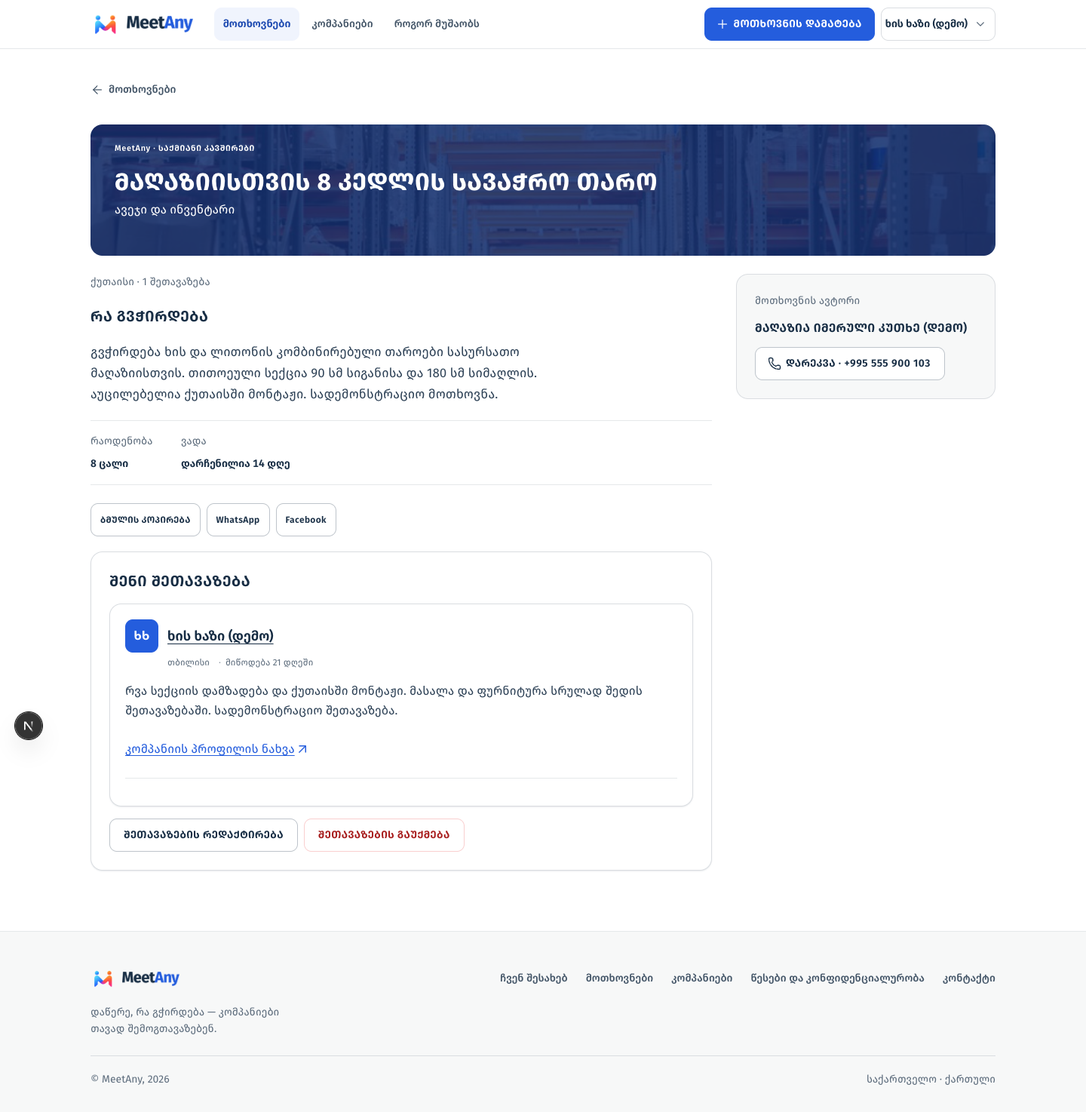
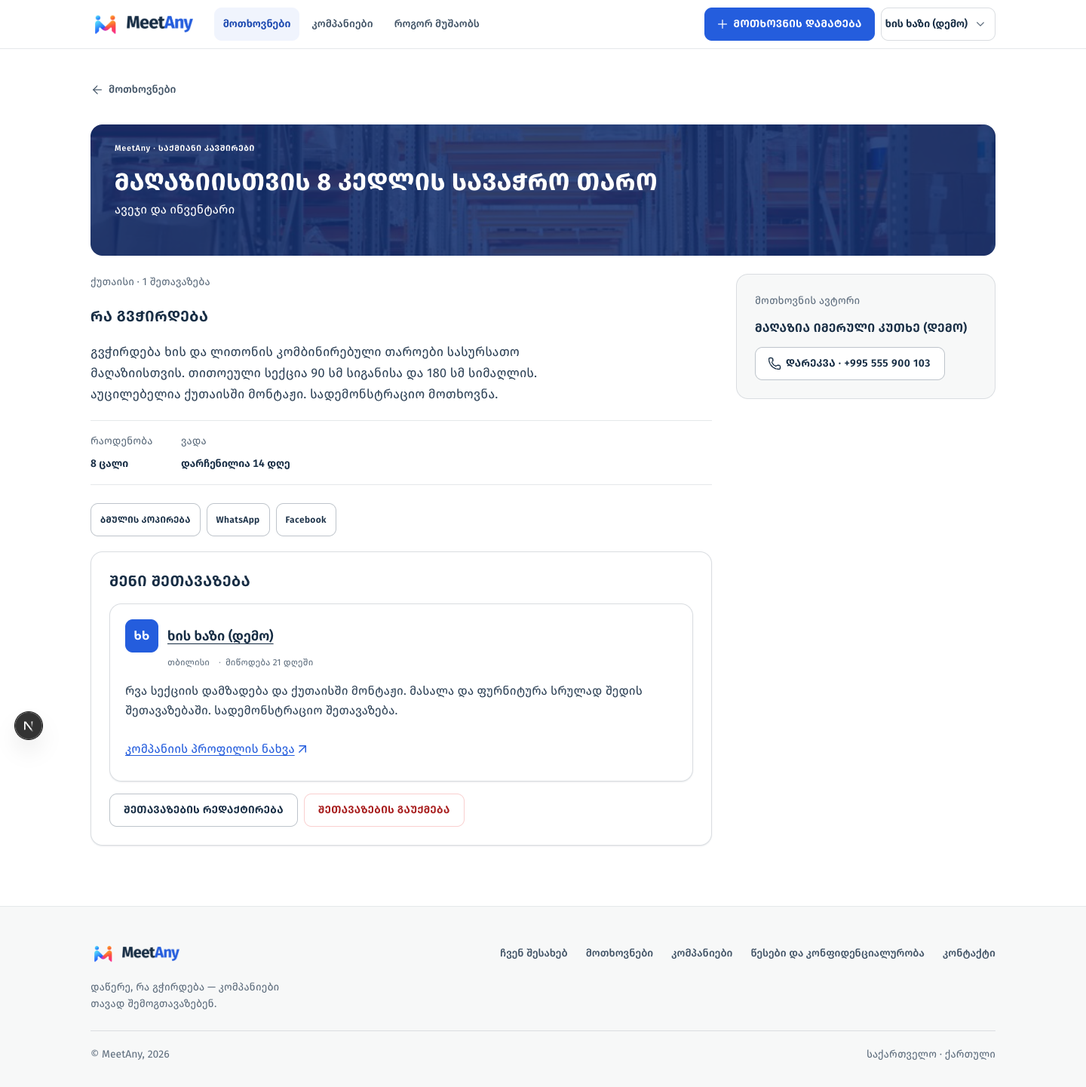
Fix remaining profile badges, filter labels and offer card spacing

diff --git a/web/app/components/market/CompaniesPageContent.tsx b/web/app/components/market/CompaniesPageContent.tsx
@@ -43,19 +43,18 @@ function skeleton() {
 export function CompaniesPageContent() {
   const { store, ready, available } = useMarketStore();
   const filters = useFilters("/companies/");
-  const industry = filters.get("industry"), city = filters.get("city"), query = filters.get("q"), verified = filters.get("verified") === "1";
+  const industry = filters.get("industry"), city = filters.get("city"), query = filters.get("q");
   const type = filters.get("type");
   const setIndustry = (industry: string) => filters.set({industry});
   const setCity = (city: string) => filters.set({city});
   const setQuery = (q: string) => filters.set({q});
-  const setVerified = (value: boolean) => filters.set({verified: value ? "1" : ""});
   const [sheetOpen, setSheetOpen] = useState(false);
   const filterButtonRef = useRef<HTMLButtonElement>(null);
 
   const list = useCallback(
-    (overrides: Partial<{ industry: string; city: string; verified: boolean }>) =>
-      (store?.listCompanies as (args: unknown) => MappedCompany[])?.({ industry, city, verified, type, q: query, ...overrides }) || [],
-    [store, industry, city, verified, query, type],
+    (overrides: Partial<{ industry: string; city: string }>) =>
+      (store?.listCompanies as (args: unknown) => MappedCompany[])?.({ industry, city, type, q: query, ...overrides }) || [],
+    [store, industry, city, query, type],
   );
 
   const results = useMemo(() => (ready && available ? list({}) : []), [ready, available, list]);
@@ -99,30 +98,28 @@ export function CompaniesPageContent() {
     ...(type ? [{key: "type", label: ({suppliers: "მომწოდებლები", services: "მომსახურება", distributors: "დისტრიბუტორები", partners: "ბიზნესპარტნიორები"} as Record<string, string>)[type] || type}] : []),
     ...(industry ? [{ key: "industry", label: categories[industry] }] : []),
     ...(city ? [{ key: "city", label: cities[city] }] : []),
-    ...(verified ? [{ key: "verified", label: "დადასტურებული" }] : []),
   ];
   const removeFilter = (key: string) => {
     if (key === "type") filters.set({type: ""});
     else if (key === "industry") setIndustry("");
     else if (key === "city") setCity("");
-    else setVerified(false);
   };
   const clearFilters = () => filters.set({industry: "", city: "", verified: "", q: "", type: ""});
-  const filterCount = Number(!!industry) + Number(!!city) + Number(verified);
+  const filterCount = Number(!!industry) + Number(!!city);
 
   const countLabel = !available ? "" : !ready ? "კომპანიები იტვირთება…" : `${rows.length} კომპანია`;
 
-  const filtersBody = (
+  const filtersBody = (placement: "desktop" | "mobile") => (
     <div className="ma-proto-filters">
       <div>
         <h2 className="ma-title">დარგი</h2>
         <FacetList all={industryFacets} loading={!ready} allLabel="ყველა დარგი" allCount={allCount} activeId={industry} onSelect={setIndustry} />
       </div>
       <div className="ma-field">
-        <label className="ma-field__label" htmlFor="company-city-desktop">
+        <label className="ma-field__label" htmlFor={`company-city-${placement}`}>
           მომსახურების ქალაქი
         </label>
-        <select className="ma-select" id="company-city-desktop" value={city} onChange={(e) => setCity(e.target.value)}>
+        <select className="ma-select" id={`company-city-${placement}`} value={city} onChange={(e) => setCity(e.target.value)}>
           <option value="">ყველა ქალაქი</option>
           {cityOptions.map((id) => (
             <option key={id} value={id}>
@@ -131,10 +128,6 @@ export function CompaniesPageContent() {
           ))}
         </select>
       </div>
-      <label className="ma-check">
-        <input type="checkbox" role="switch" checked={verified} onChange={(e) => setVerified(e.target.checked)} />
-        <span>მხოლოდ დადასტურებული</span>
-      </label>
       <button type="button" className="ma-btn ma-btn--ghost" onClick={clearFilters}>
         ფილტრების გასუფთავება
       </button>
@@ -162,7 +155,7 @@ export function CompaniesPageContent() {
       </header>
       <div className="ma-proto-columns">
         <aside className="ma-proto-sidebar ma-panel" aria-label="კომპანიების ფილტრები">
-          {filtersBody}
+          {filtersBody("desktop")}
         </aside>
         <section className="ma-stack">
           <button type="button" className="ma-btn ma-btn--secondary ma-lg-down" ref={filterButtonRef} onClick={() => setSheetOpen(true)}>
@@ -223,7 +216,7 @@ export function CompaniesPageContent() {
           </button>
         }
       >
-        {filtersBody}
+        {filtersBody("mobile")}
       </MobileFilterSheet>
     </div>
   );

diff --git a/web/app/components/HomeLive.tsx b/web/app/components/HomeLive.tsx
@@ -20,6 +20,6 @@ export function HomeFeatured() {
   const list = [...all].sort((a,b) => Number(b.verified) - Number(a.verified)).slice(0,3);
   return <div className="m-list" id="featured-companies" aria-busy={!ready}>{!ready ? <p role="status">იტვირთება…</p> : !available ? <p>სერვისი დროებით მიუწვდომელია.</p> : !list.length ? <div className="m-empty"><h2>კომპანიები მალე გამოჩნდება</h2><Link className="m-btn m-btn-primary" href="/account/?tab=register&role=company">დაარეგისტრირე კომპანია</Link></div> : list.map(c => {
     const stats=store?.companyStats(c.id);
-    return <article className="m-company" key={c.id}><span className="m-avatar" style={{background:"var(--action)"}} aria-hidden="true">{initials(c.company)}</span><div><h3><Link href={`/companies/view/?id=${c.id}`}>{c.company}</Link>{c.verified ? <span className="m-verified"><Icon name="badge-check"/>დადასტურებული</span> : null}</h3><div className="m-sub">{categories[c.industry]} · {cities[c.city]}</div>{c.about ? <p>{c.about}</p> : null}<div className="m-tags">{c.offers.slice(0,3).map(t => <span key={t} className="m-chip plain">{t}</span>)}</div></div><div className="m-company-side"><span className="m-count"><Icon name="send"/><b>{stats.sent}</b> შეთავაზება{stats.chosen ? ` · ${stats.chosen} არჩეული` : ""}</span><Link className="m-btn m-btn-secondary m-btn-sm" href={`/companies/view/?id=${c.id}`}>პროფილი <Icon name="arrow-right"/></Link></div></article>;
+    return <article className="m-company" key={c.id}><span className="m-avatar" style={{background:"var(--action)"}} aria-hidden="true">{initials(c.company)}</span><div><h3><Link href={`/companies/view/?id=${c.id}`}>{c.company}</Link></h3><div className="m-sub">{categories[c.industry]} · {cities[c.city]}</div>{c.about ? <p>{c.about}</p> : null}<div className="m-tags">{c.offers.slice(0,3).map(t => <span key={t} className="m-chip plain">{t}</span>)}</div></div><div className="m-company-side"><span className="m-count"><Icon name="send"/><b>{stats.sent}</b> შეთავაზება{stats.chosen ? ` · ${stats.chosen} არჩეული` : ""}</span><Link className="m-btn m-btn-secondary m-btn-sm" href={`/companies/view/?id=${c.id}`}>პროფილი <Icon name="arrow-right"/></Link></div></article>;
   })}</div>;
 }

diff --git a/web/app/components/market/AccountPageContent.tsx b/web/app/components/market/AccountPageContent.tsx
@@ -75,7 +75,7 @@ function ProfileForm({ me, onSaved }: { me: AnyUser; onSaved: () => void }) {
             <label className="ma-field__label" htmlFor="company">
               კომპანიის დასახელება{isCompany ? " *" : ""}
             </label>
-            <input className="ma-input" id="company" maxLength={100} value={company} onChange={(e) => setCompany(e.target.value)} />
+            <input className="ma-input" id="company" required={isCompany} maxLength={100} value={company} onChange={(e) => setCompany(e.target.value)} />
           </div>
         </div>
         <div className="ma-form__row ma-form__row--2">
@@ -196,7 +196,7 @@ export function AccountPageContent() {
   if (!me) {
     return (
       <div className="ma-page">
-        <PageBand eyebrow="MeetAny · საქმიანი კავშირები" title="შედი ანგარიშში" description="MeetAny აკავშირებს ბიზნესებს: ნებისმიერს შეუძლია დაწეროს მოთხოვნა, კომპანიები კი პასუხობენ შეთავაზებით." />
+        <PageBand eyebrow="MeetAny · საქმიანი კავშირები" title="შენი ანგარიში" description="MeetAny აკავშირებს ბიზნესებს: ნებისმიერს შეუძლია დაწეროს მოთხოვნა, კომპანიები კი პასუხობენ შეთავაზებით." />
         <AuthForms initialRole={searchParams.get("role") || ""} />
       </div>
     );
@@ -215,7 +215,6 @@ export function AccountPageContent() {
           <p className="ma-small ma-muted">
             {me.name} · {isCompany ? "კომპანია" : "კლიენტი"}
           </p>
-          {isCompany && me.verified ? <span className="ma-badge ma-badge--success">დადასტურებული</span> : null}
           {me.blocked ? <span className="ma-badge ma-badge--danger">დაბლოკილია</span> : null}
           <dl className="ma-kv">
             <div>

diff --git a/web/app/components/market/RequestsPageContent.tsx b/web/app/components/market/RequestsPageContent.tsx
@@ -147,17 +147,17 @@ export function RequestsPageContent({ autoOpenNew = false }: { autoOpenNew?: boo
       ? "მოთხოვნები იტვირთება…"
       : `${rows.length} ღია მოთხოვნა`;
 
-  const filtersBody = (
+  const filtersBody = (placement: "desktop" | "mobile") => (
     <div className="ma-proto-filters">
       <div>
         <h2 className="ma-title">კატეგორია</h2>
         <FacetList all={categoryFacets} loading={!ready} allLabel="ყველა კატეგორია" allCount={allCount} activeId={category} onSelect={setCategory} />
       </div>
       <div className="ma-field">
-        <label className="ma-field__label" htmlFor="city-desktop">
+        <label className="ma-field__label" htmlFor={`city-${placement}`}>
           სად არის საჭირო
         </label>
-        <select className="ma-select" id="city-desktop" value={city} onChange={(e) => setCity(e.target.value)}>
+        <select className="ma-select" id={`city-${placement}`} value={city} onChange={(e) => setCity(e.target.value)}>
           <option value="">ყველა ქალაქი</option>
           {cityFacets.map((f) => (
             <option key={f.id} value={f.id}>
@@ -190,7 +190,7 @@ export function RequestsPageContent({ autoOpenNew = false }: { autoOpenNew?: boo
       </header>
       <div className="ma-proto-columns">
         <aside className="ma-proto-sidebar ma-panel" aria-label="ფილტრები">
-          {filtersBody}
+          {filtersBody("desktop")}
         </aside>
         <section className="ma-stack" aria-label="მოთხოვნების სია">
           <div className="ma-proto-toolbar">
@@ -262,7 +262,7 @@ export function RequestsPageContent({ autoOpenNew = false }: { autoOpenNew?: boo
           </button>
         }
       >
-        {filtersBody}
+        {filtersBody("mobile")}
       </MobileFilterSheet>
 
       <RequestFormSheet open={formOpen} initialCategory={formCategory} onClose={() => setFormOpen(false)} />

diff --git a/web/app/components/market/AuthForms.tsx b/web/app/components/market/AuthForms.tsx
@@ -39,13 +39,13 @@ function LoginForm({ onSwitch, onReset }: { onSwitch: () => void; onReset: () =>
         <label className="ma-field__label" htmlFor="login-email">
           ელფოსტა
         </label>
-        <input className="ma-input" id="login-email" type="email" required value={email} onChange={(e) => setEmail(e.target.value)} placeholder="name@company.ge" />
+        <input className="ma-input" id="login-email" autoComplete="username" type="email" required value={email} onChange={(e) => setEmail(e.target.value)} placeholder="name@company.ge" />
       </div>
       <div className="ma-field">
         <label className="ma-field__label" htmlFor="login-password">
           პაროლი
         </label>
-        <input className="ma-input" id="login-password" type="password" required value={password} onChange={(e) => setPassword(e.target.value)} />
+        <input className="ma-input" id="login-password" autoComplete="current-password" type="password" required value={password} onChange={(e) => setPassword(e.target.value)} />
       </div>
       {error ? (
         <p className="ma-field__error" role="alert">
@@ -121,7 +121,7 @@ function RegisterForm({ initialRole }: { initialRole: string }) {
           <label className="ma-field__label" htmlFor="reg-company">
             კომპანია / ობიექტი{role === "client" ? " · არასავალდებულო" : " *"}
           </label>
-          <input className="ma-input" id="reg-company" maxLength={100} value={company} onChange={(e) => setCompany(e.target.value)} />
+          <input className="ma-input" id="reg-company" required={role === "company"} maxLength={100} value={company} onChange={(e) => setCompany(e.target.value)} />
         </div>
       </div>
       <div className="ma-form__row ma-form__row--2">

diff --git a/web/app/components/market/CompanyProfilePageContent.tsx b/web/app/components/market/CompanyProfilePageContent.tsx
@@ -70,7 +70,7 @@ export function CompanyProfilePageContent() {
   const ctaHref = `/requests/new/?category=${encodeURIComponent(c.industry)}`;
 
   return (
-    <div className="ma-page">
+    <div className="ma-page company-profile">
       <header
         className="r2-band ma-page-head"
         style={{ "--band-photo": `url(/assets/photos/${categoryPhoto[c.industry] || categoryPhoto.other})` } as React.CSSProperties}
@@ -83,12 +83,6 @@ export function CompanyProfilePageContent() {
             {categories[c.industry] || c.industry} · {cities[c.city] || c.city}
           </p>
           <div className="ma-cluster">
-            {c.verified ? (
-              <span className="ma-badge ma-badge--success">
-                <Icon name="check" />
-                დადასტურებული
-              </span>
-            ) : null}
             <span>{statsLabel(stats)}</span>
           </div>
           {phone ? (
@@ -115,12 +109,6 @@ export function CompanyProfilePageContent() {
               <dt>წევრია</dt>
               <dd>{dateLabel(c.createdAt)}</dd>
             </div>
-            {c.verifiedAt ? (
-              <div>
-                <dt>დადასტურებულია</dt>
-                <dd>{dateLabel(c.verifiedAt)}</dd>
-              </div>
-            ) : null}
             <div>
               <dt>გაგზავნილი</dt>
               <dd>{stats.sent}</dd>

diff --git a/web/app/components/market/OfferCard.tsx b/web/app/components/market/OfferCard.tsx
@@ -48,18 +48,18 @@ export function OfferCard({ o, onChoose, canChoose }: { o: OfferCardData; onChoo
       <Link className="ma-link" href={o.companyHref}>
         კომპანიის პროფილის ნახვა <Icon name="arrow-up-right" />
       </Link>
-      <div className="ma-ocard__actions">
+      {o.status === "chosen" || (canChoose && o.status !== "declined") ? <div className="ma-ocard__actions">
         {o.status === "chosen" ? (
           <p className="ma-note">
             <Icon name="check" />
-            შეთავაზება არჩეულია. ელფოსტა ქვემოთ გამოჩნდება.
+            შეთავაზება არჩეულია.
           </p>
         ) : canChoose && o.status !== "declined" ? (
           <button type="button" className="ma-btn ma-btn--primary" onClick={onChoose}>
             შეთავაზების არჩევა
           </button>
         ) : null}
-      </div>
+      </div> : null}
     </article>
   );
 }

diff --git a/web/app/components/market/CompanyRow.tsx b/web/app/components/market/CompanyRow.tsx
@@ -28,12 +28,7 @@ export function CompanyRow({ c }: { c: CompanyRowData }) {
         <Link className="ma-title ma-proto-rowtitle" href={href}>
           {c.name}
         </Link>
-        {c.verified ? (
-          <span className="ma-badge ma-badge--success">
-            <Icon name="check" />
-            დადასტურებული
-          </span>
-        ) : null}
+
         <p className="ma-small ma-muted">
           {categories[c.industry] || c.industry} · {cities[c.city] || c.city}
         </p>

diff --git a/web/app/styles/marketplace.css b/web/app/styles/marketplace.css
@@ -246,3 +246,7 @@
  .requests-catalog .ma-proto-rowend{display:flex;flex-wrap:wrap;align-items:center;gap:var(--space-3)}
  .requests-catalog .ma-proto-rowend>.ma-btn{margin-left:auto}
 }
+
+/* Profile sections already have a parent gap; avoid adding two section margins as well. */
+.company-profile .ma-proto-account>.ma-stack{gap:var(--space-8)}
+.company-profile .ma-proto-account>.ma-stack>.r2-section{margin-block:0}

diff --git a/DESIGN-SYSTEM.md b/DESIGN-SYSTEM.md
@@ -13,7 +13,7 @@ Tailwind/shadcn არ გამოიყენება. ახალი ფე
 
 მოთხოვნების სია: კომპაქტური თეთრი შესავალი, სათაურის გვერდით ძიება, მარცხენა ფილტრები და შედეგების რიგში დალაგება. ტექსტზე ორიენტირებულ ბარათებში რაოდენობა/ქალაქი და ვადა/პასუხები სტაბილურ ადგილებს იკავებს. მოთხოვნის დეტალი ინარჩუნებს მუქ ფოტობენდს. კატეგორიები Lucide-ის `/icons.svg` sprite-დან; ყველა არანულოვანი კატეგორია ჩანს მოკლე ერთხაზიანი ლეიბლით, ცალკე რაოდენობით და აქტიური რიგის მარცხენა აქცენტით. სრული სახელი ხელმისაწვდომია `aria-label`/`title`-ში. ჩატვირთვისას რაოდენობები არ იბეჭდება.
 
-კომპანიები: ღია ლურჯი შესავალი, პროდუქტზე/მომსახურებაზე ორიენტირებული ძიება და პირდაპირი კონტაქტის მინიშნება; კომპაქტური ჰორიზონტალური ფოტო (3:2) `categoryPhoto`-დან, მომსახურების ჩიპები და ძირითადი ლურჯი ღილაკი. კატალოგის ბარათზე დადასტურების ბეიჯი არ ჩანს (მფლობელის განახლებული გადაწყვეტილება). ფოტო და კომპანიის ვინაობა ზედა რიგს იკავებს, აღწერა/მომსახურებები/მოქმედებები მთელ სიგანეს იყენებს. პროდუქტები უბრალო სიაა. ტელეფონის ბმული არის `tel:` და მინიმუმ 44px სამიზნე აქვს.
+კომპანიები: ღია ლურჯი შესავალი, პროდუქტზე/მომსახურებაზე ორიენტირებული ძიება და პირდაპირი კონტაქტის მინიშნება; კომპაქტური ჰორიზონტალური ფოტო (3:2) `categoryPhoto`-დან, მომსახურების ჩიპები და ძირითადი ლურჯი ღილაკი. კომპანიის დადასტურების ბეიჯი მომხმარებლის ხედებში არ ჩანს; კატალოგის დადასტურების ფილტრიც ამოღებულია (მფლობელის განახლებული გადაწყვეტილება). ფოტო და კომპანიის ვინაობა ზედა რიგს იკავებს, აღწერა/მომსახურებები/მოქმედებები მთელ სიგანეს იყენებს. პროდუქტები უბრალო სიაა. ტელეფონის ბმული არის `tel:` და მინიმუმ 44px სამიზნე აქვს.
 
 მთავარი ინარჩუნებს არსებულ hero-ს და 3D კატეგორიებს. `HomeLive`-ის featured კომპანიები და რაოდენობები რეალური ბაზიდან იტვირთება. ძველ hero-სთან შედარება: 1440px-ზე ორივე 435.09px სიმაღლე; ფერი/ფოტოს გამჭვირვალობა იდენტურია.
 

diff --git a/web/qa/README.md b/web/qa/README.md
@@ -20,3 +20,12 @@
 მოთხოვნისა და კომპანიის კატალოგების შემდგომი განსხვავების კვლევა: [DESIGN-DIRECTION.md](DESIGN-DIRECTION.md). მფლობელის თანხმობის შემდეგ განსხვავებული შესავალი ბლოკებიც განხორციელდა.
 
 კატალოგების განსხვავება: `shots/catalog-*-desktop.png`, `catalog-*-mobile.png` და `catalog-*-filters-mobile.png`. შემოწმდა 1440/1024/390, ძიება/ცარიელი შედეგი, URL/reload/back, მობილური ფილტრი და Escape. Build წარმატებულია; შეცვლილ კომპონენტებზე lint: 0 შეცდომა, 1 არსებული img გაფრთხილება.
+
+## დარჩენილი UI ხარვეზები — 2026-09-23
+
+- მომხმარებლის ხედებიდან ამოღებულია კომპანიის დადასტურების ბეიჯი და კატალოგის შესაბამისი ფილტრი (მთავარი, პროფილი, ანგარიში, კომპანიის რიგი). ძველი `?verified=1` კატალოგს აღარ ზღუდავს; ადმინისტრაციული მონაცემები/მართვა შენარჩუნებულია.
+- მოთხოვნისა და კომპანიის ფილტრებს ცალკე desktop/mobile ID-ები აქვს. ბრაუზერში შემოწმდა უნიკალურობა, label/control კავშირი და მობილურიდან ქალაქის შეცვლა.
+- შეთავაზების ქარდი ცარიელ მოქმედებების ბლოკს აღარ გამოსახავს; არჩეული შეთავაზების ტექსტი ელფოსტის მდებარეობაზე მცდარ დაპირებას აღარ იძლევა.
+- კომპანიის სახელის სავალდებულო ვალიდაცია დამატებულია რეგისტრაციასა და პროფილის ფორმაში; შესვლის ველები იყენებს password-manager autocomplete-ს. ანგარიშის შესავალი სათაური ყველა ავტორიზაციის რეჟიმს ერგება.
+- პროფილის სექციებს შორის ორმაგი დაშორება მოხსნილია. 1280/390-ზე დათვალიერებულია პროფილი, რეგისტრაციის ორივე როლი, აღდგენის ფორმა და სამი როლის ანგარიშები. სურათები: `review-*`, `profile-*`, `account-*`.
+- Build წარმატებულია. რეგისტრაციის რეალური გაგზავნა, წერილის მიღება და პაროლის შეცვლა ჯერ არ შესრულებულა: მომხმარებელმა ელფოსტის მხოლოდ პირველი ნაწილი მოგვაწოდა; სრული მისამართი მოთხოვნილია. სატესტო ელფოსტამდე სამუშაოს დასრულებულად არ ჩავთვლით ამ ნაწილში.
